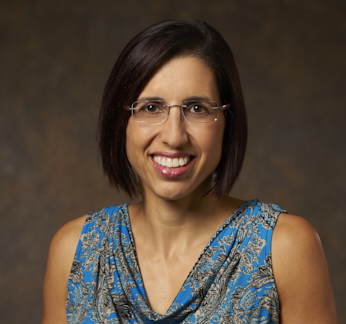
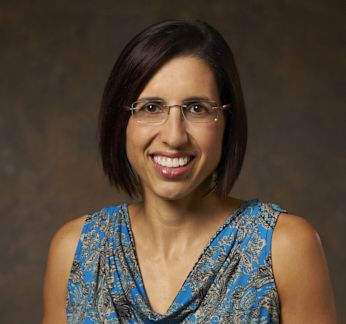
image resize optimization

diff --git a/README.md b/README.md
@@ -1025,7 +1025,7 @@
 				<td class="presenter_image_container">
 					<div class="single_image_container">
 						<a href="https://www.univ-tours.fr/annuaire/m-vincent-tkindt">
-							<img class="single_presenter" loading="lazy" src="photos/VTkindt-head.png" alt="person_photo"/>
+							<img class="single_presenter" loading="lazy" src="photos/VTkindt-head.jpg" alt="person_photo"/>
 						</a><br/>
 					</div>
 				</td>
@@ -1455,7 +1455,7 @@
 				<td class="presenter_image_container">
 					<div class="single_image_container">
 						<a href="https://www.ieor.columbia.edu/faculty/clifford-stein">
-							<img class="single_presenter" loading="lazy" src="photos/Clifford_Stein_web.png" alt="person_photo"/>
+							<img class="single_presenter" loading="lazy" src="photos/Clifford_Stein_web.jpg" alt="person_photo"/>
 						</a><br/>
 					</div>
 				</td>
@@ -2691,7 +2691,7 @@
 				<td class="presenter_image_container">
 					<div class="single_image_container">
 						<a href="https://in.bgu.ac.il/en/engn/iem/pages/staff/Dvir-Shabtay.aspx">
-							<img class="single_presenter" loading="lazy" src="photos/dvir-web.png" alt="person_photo"/>
+							<img class="single_presenter" loading="lazy" src="photos/dvir-web.jpg" alt="person_photo"/>
 						</a><br/>
 					</div>
 				</td>
@@ -3126,7 +3126,7 @@
 				<td class="presenter_image_container">
 					<div class="single_image_container">
 						<a href="http://www.andrew.cmu.edu/user/moseleyb/  ">
-							<img class="single_presenter" loading="lazy" src="photos/ben_mosley.jpeg"
+							<img class="single_presenter" loading="lazy" src="photos/ben_mosley.jpg"
 							     alt="person_photo"/>
 						</a><br/>
 					</div>
@@ -4369,7 +4369,7 @@
 			<!--Dvir Shabtay-->
 			<td>
 				<a href="https://in.bgu.ac.il/en/engn/iem/pages/staff/Dvir-Shabtay.aspx">
-					<img src="photos/dvir-web.png" height="200" width="150" alt="person_photo"/><br/>
+					<img src="photos/dvir-web.jpg" height="200" width="150" alt="person_photo"/><br/>
 					Dvir Shabtay<br/>
 					Ben Gurion Uni</a>
 			</td>
@@ -4393,7 +4393,7 @@
 			<!--Clifford Stein-->
 			<td>
 				<a href="https://www.ieor.columbia.edu/faculty/clifford-stein">
-					<img src="photos/Clifford_Stein_web.png" height="200" width="150" alt="person_photo"/><br/>
+					<img src="photos/Clifford_Stein_web.jpg" height="200" width="150" alt="person_photo"/><br/>
 					Clifford Stein<br/>
 					Columbia Uni</a>
 			</td>
@@ -4409,7 +4409,7 @@
 			<!--Vincent T'kindt-->
 			<td>
 				<a href="https://www.univ-tours.fr/annuaire/m-vincent-tkindt">
-					<img src="photos/VTkindt-head.png" height="200" width="150" alt="person_photo"/><br/>
+					<img src="photos/VTkindt-head.jpg" height="200" width="150" alt="person_photo"/><br/>
 					Vincent T'kindt<br/>
 					Uni de Tours</a>
 			</td>
